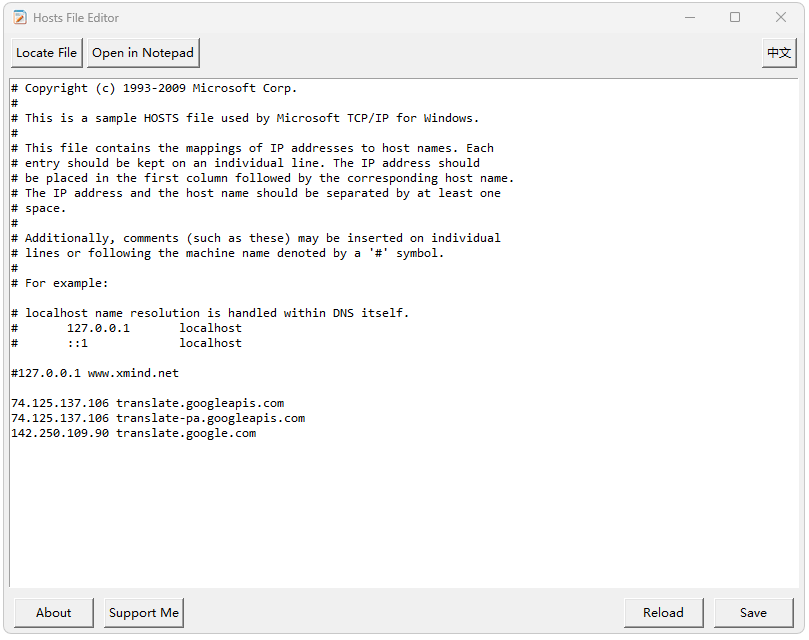
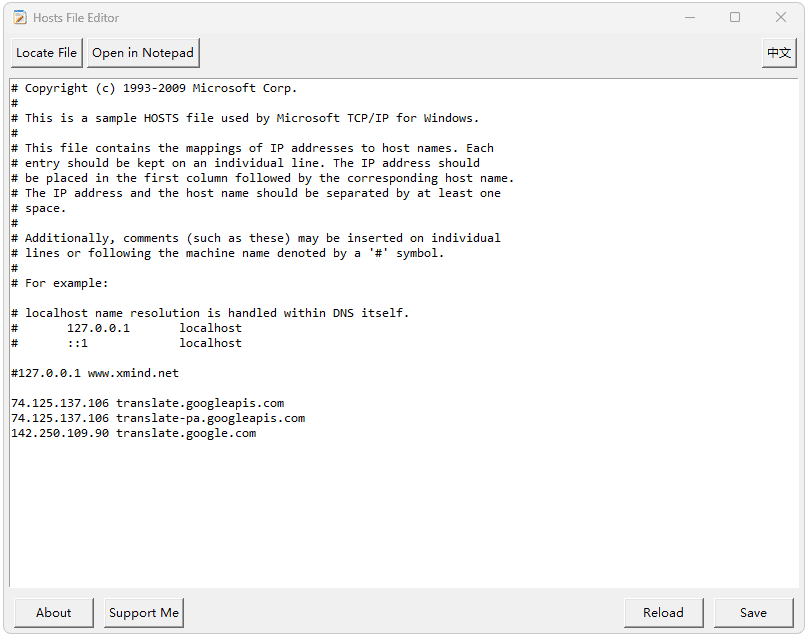
1

diff --git a/README.md b/README.md
@@ -1,2 +1,37 @@
-# Hosts_Editor
-Open the software and edit the Hosts file directly.
+<div align="center">
+  
+<img alt="Vditor" src="https://xinpenghan.github.io/DNS-Speed-Test/image/logo.png" />
+<br>
+<h3>DNS Speed Test</h3>
+
+<a title="MIT" target="_blank" href="https://opensource.org/licenses/MIT"><img src="https://img.shields.io/badge/license-MIT-orange.svg?style=flat-square"></a>
+<br>
+<a href="https://github.com/xinpenghan/DNS-Speed-Test/blob/main/README_zh.md">中文</a> &nbsp;|&nbsp; <a href="https://github.com/xinpenghan/DNS-Speed-Test/blob/main/README.md">English</a>
+
+</div>
+
+## 💡 Introduction
+
+<p>
+
+This software collects DNS addresses from around the world and supports speed testing for these global DNS addresses.
+
+</p>
+<br>
+<table>
+    <tr>
+        <td width="99999" align="center">This project was developed entirely for my personal learning and use. I am still a student and in school.<b><a href="https://app.eblog.top/support.html">Donations are welcome to support me.</a></b></td>
+    </tr>
+</table>
+
+ <img alt="Vditor" src="https://xinpenghan.github.io/YD-YoutubeDownloader/image/paypal.png" width="200" />
+
+## Download link
+   - 📦 **[stable version](https://github.com/xinpenghan/DNS-Speed-Test/releases/)**
+
+<br>
+
+
+## Screenshot
+
+<img alt="Vditor" src="https://xinpenghan.github.io/DNS-Speed-Test/image/2.png" />

diff --git a/README_zh.md b/README_zh.md
@@ -1,0 +1,36 @@
+<div align="center">
+  
+<img alt="Vditor" src="https://xinpenghan.github.io/DNS-Speed-Test/image/logo.png" />
+<br>
+<h3>YoutubeDownloader</h3>
+
+<a title="MIT" target="_blank" href="https://opensource.org/licenses/MIT"><img src="https://img.shields.io/badge/license-MIT-orange.svg?style=flat-square"></a>
+<br>
+<a href="https://github.com/xinpenghan/DNS-Speed-Test/blob/main/README_zh.md">中文</a> &nbsp;|&nbsp; <a href="https://github.com/xinpenghan/DNS-Speed-Test/blob/main/README.md">English</a>
+</div>
+
+## 💡 简介
+
+<p>
+
+该软件收集全球的 DNS 地址，并支持这些全球 DNS 地址的速度测试。
+
+</p>
+<br>
+<table>
+    <tr>
+        <td width="99999" align="center">本项目完全由个人开发学习使用，我还是个学生，还在上学中. <b><a href="https://app.eblog.top/support.html">欢迎捐款资助我</a></b></td>
+    </tr>
+</table>
+
+<img alt="Vditor" src="https://xinpenghan.github.io/YD-YoutubeDownloader/image/paypal.png" width="200" />
+
+## 下载地址
+   - 📦 **[稳定版本](https://github.com/xinpenghan/DNS-Speed-Test/releases/)**
+
+<br>
+
+
+## 屏幕截图
+
+<img alt="Vditor" src="https://xinpenghan.github.io/DNS-Speed-Test/image/2.png" />
